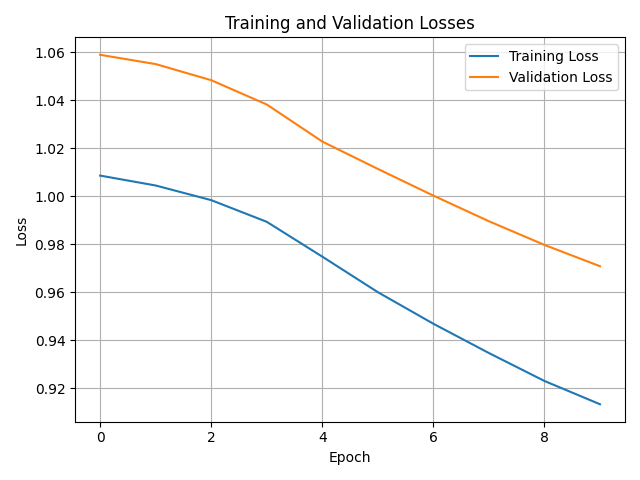
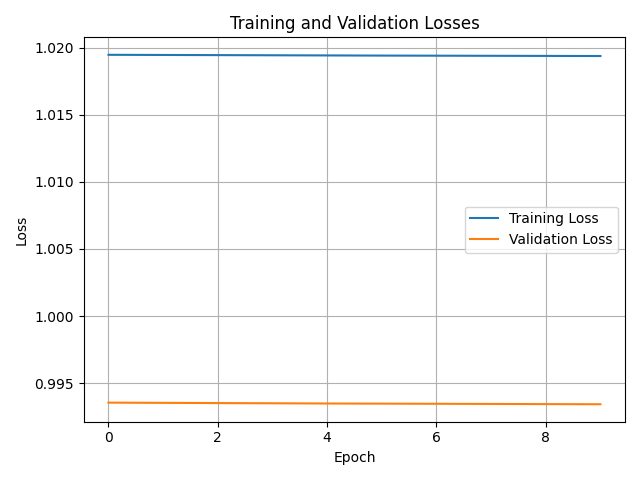
autoencoder fix

diff --git a/scripts/run_train_autoencoder.py b/scripts/run_train_autoencoder.py
@@ -37,8 +37,8 @@ config = helpers_main.load_config()
 import logging
 
 # File paths for background and signal data
-bg_file = config['data']['processed_data_dir'] + config['data']['background_file']
-sg_file = config['data']['processed_data_dir'] + config['data']['signal_file']
+bg_file = os.path.join(config['data']['processed_data_dir'], config['data']['background_file'])
+sg_file = os.path.join(config['data']['processed_data_dir'], config['data']['signal_file'])
 
 class TrainAutoencoder:
     # Packaged into a class for variable management
@@ -64,7 +64,7 @@ class TrainAutoencoder:
         logging.info(f"Number of training events: {len(self.bg_data)}")
         logging.info(f"Number of test events: {len(self.sg_data)}")
         logging.info(f"\nSample background pt values:\n{self.bg_data['pt'].head().to_string()}")
-        logging.info(f"Sample signal pt values:\n{self.sg_data['pt'].head()}")
+        logging.info(f"Sample signal pt values:\n{self.sg_data['pt'].head().to_string()}")
     
     def build_graphs(self):
         # Convert datasets to PyG graph objects
@@ -102,9 +102,9 @@ class TrainAutoencoder:
         # Compute mean and std per feature dimension
         self.means = self.all_features.mean(dim=0)
         self.stds  = self.all_features.std(dim=0)
-        logging.info("Feature Means:", self.means)
-        logging.info("Feature Stds:", self.stds)
-        logging.info("Number of features:", self.num_features)
+        logging.info(f"Feature Means: {self.means}")
+        logging.info(f"Feature Stds: {self.stds}")
+        logging.info(f"Number of features: {self.num_features}")
     
     def plot_features(self):
         # Plot each feature's distribution
@@ -144,8 +144,8 @@ class TrainAutoencoder:
     def plot_loss(self):
         # Plot per-graph reconstruction loss distribution
         plt.figure(figsize=(8, 5))
-        plt.hist(model.background_test_loss, bins=50, alpha=0.6, label='Background (QCD)', color='blue', density=True)
-        plt.hist(model.signal_loss, bins=50, alpha=0.6, label='Signal', color='red', density=True)
+        plt.hist(self.model.background_test_loss, bins=50, alpha=0.6, label='Background (QCD)', color='blue', density=True)
+        plt.hist(self.model.signal_loss, bins=50, alpha=0.6, label='Signal', color='red', density=True)
         plt.xlabel("Per-Graph Reconstruction Loss")
         plt.ylabel("Density")
         plt.title("Reconstruction Loss Distribution")
@@ -181,7 +181,8 @@ def run_autoencoder_training(
     Returns:
         model (JetGraphAutoencoder): Trained model.
     """
-    device = torch.device('cuda' if torch.cuda.is_available() else 'cpu')
+    # device = torch.device('cuda' if torch.cuda.is_available() else 'cpu')
+    device = torch.device("cpu")
 
     model = JetGraphAutoencoder(
         num_features=train_graphs[0].x.shape[1],

diff --git a/scripts/ray_sweep.py b/scripts/ray_sweep.py
@@ -178,7 +178,8 @@ with open("configs/config.yaml", "r") as f:
 
 train_file = config['data']['processed_data_dir'] + config['data']['train_file']
 test_file = config['data']['processed_data_dir'] + config['data']['test_file']
-device = torch.device("cuda" if torch.cuda.is_available() else "cpu")
+# device = torch.device("cuda" if torch.cuda.is_available() else "cpu")
+device = torch.device("cpu")
 
 def train_autoencoder_ray(config_ray):
     # === Load data ===

diff --git a/visualize/plot_metrics.py b/visualize/plot_metrics.py
@@ -14,6 +14,7 @@ import numpy as np
 from sklearn.metrics import roc_curve, auc
 import pandas as pd
 
+import sys, os
 sys.path.append(os.path.abspath(os.path.join(os.path.dirname(__file__), "..")))
 from helpers import helpers_main
 

diff --git a/todos.md b/todos.md
@@ -92,11 +92,15 @@
     - with this, we can figure out how to add the metadata
     - each fatjet should have its pt recorded, alongside... pfcands? what other fields?
 
+- Fixed venv. again.
+    - again!! at least it works fr now from a fresh install.
+
 **NOW:**
+- Graphing processed fj_pt ranges to make sure slicing works
 
-- ...still need to fix venv. lol
+- changing all the cpu/cuda prompts to ACTUALLY use config.yaml
 
-- Can add more metadata than currently added (fj_phi etc)
+- Can add more metadata than currently added (e.g. pfcands)
     - and make sure this remains in processing, too!!
     - add to documentation in readme! e.g. how to graph the fatjet pt ranges from preproc data
 
@@ -105,24 +109,22 @@
     - familiarise w/ the model and what's been done so far
         - what features have been used to train? how have the edges been modified? what hasn't been tried?
         - what regions of parameters have been sweeped, and what haven't?
-
-- Merge w/ main again, and start streamlining/updating Arjun's code
     - save different useful plots permanently (analysing all the raw/processed data)
     
 - Look into ways to use Brux's GPU!
     - if successful, we can train for way more epochs hopefully
 
 - **Todos on Slack!!**
-    - using PFCands instead of FatJet?
-
+    - using PFCands instead of FatJet? can add to 
+    - Plot PFCands! since we may be using those for training
 
 **later maybe:**
+
 - Using the visualize() func in processing.py to visualise stuff like the zeroes after processing
     - what gets excluded when `not include_zeros`? how are scaled zeroes distributed?
     - also to visualise processed distributions in general across all fields
         - errors out at mass I think, coz of inf/nan errors! try to filter out and redo
 
-- Plot PFCands! since we may be using those for training at some point (instead of the ratio of fatjet to pfcs pt)
 
 
 